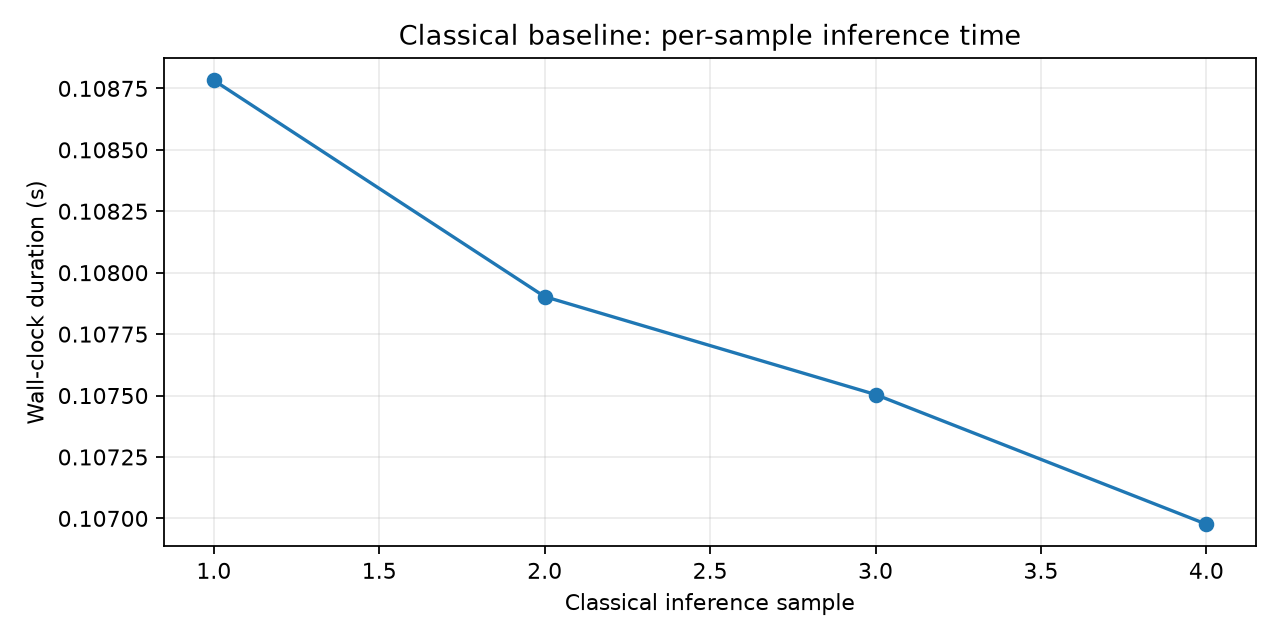
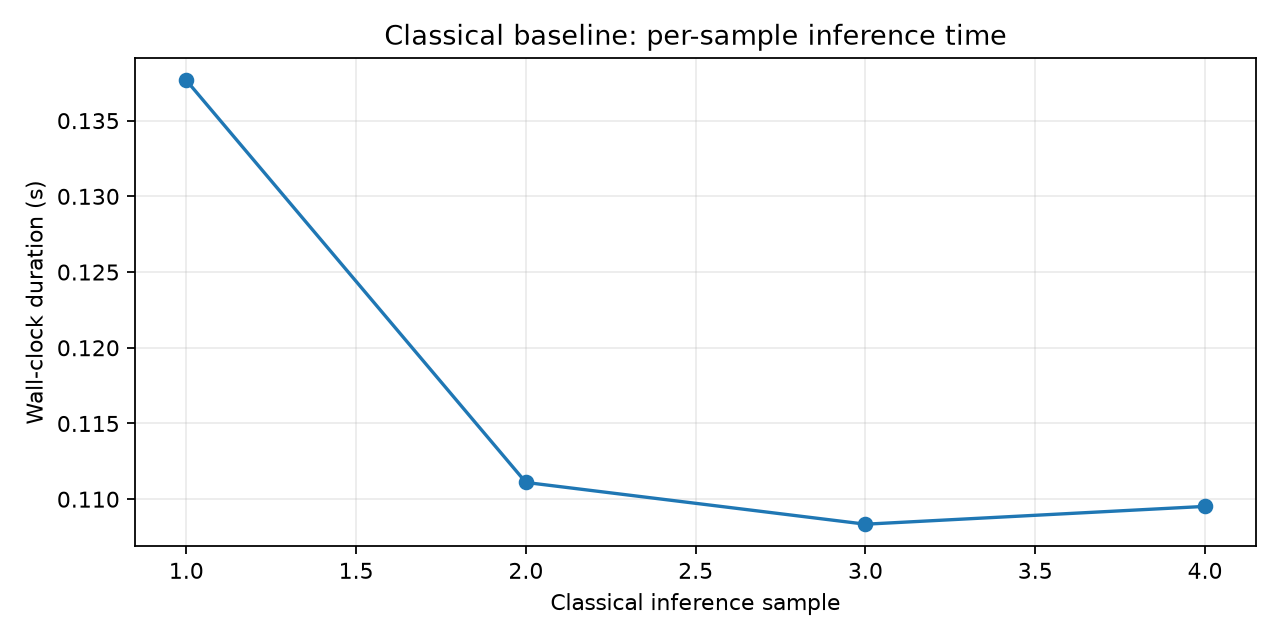
format

diff --git a/java-sdk/src/main/java/org/mse802/sdk/Main.java b/java-sdk/src/main/java/org/mse802/sdk/Main.java
@@ -6,52 +6,123 @@ import java.nio.charset.StandardCharsets;
 import java.time.Duration;
 import java.util.*;
 
-/** Quantum Quokka gateway and circuit-free classical baseline SDK. Author: Shuohui Liu. Date: 28 Oct 2026. */
+/**
+ * Quantum Quokka gateway and circuit-free classical baseline SDK. Author:
+ * Shuohui Liu. Date: 28 Oct 2026.
+ */
 public final class Main {
-  static final String URL = System.getenv().getOrDefault("QUOKKA_URL", "http://quokka1.quokkacomputing.com/qsim/qasm");
-  static final HttpClient HTTP = HttpClient.newBuilder().followRedirects(HttpClient.Redirect.NORMAL).connectTimeout(Duration.ofSeconds(12)).build();
-  static String arg(String[] a, int i) { if (a.length <= i) throw new IllegalArgumentException("Missing argument " + i); return a[i]; }
-  static String esc(String s) { return s.replace("\\", "\\\\").replace("\"", "\\\"").replace("\n", "\\n").replace("\r", "\\r"); }
-  static String block(double a, double b, int i, int j) { return "ry("+a+") q["+i+"];\nry("+b+") q["+j+"];\ncx q["+i+"],q["+j+"];\n"; }
-  static void pairs(List<int[]> out,int start,int end) { if(start>=end)return;int mid=(start+end-1)/2;pairs(out,start,mid);pairs(out,mid+1,end);out.add(new int[]{mid,end}); }
-  public static String circuit(String bits, double[] angles) {
-    int n=bits.length();if(n<2)throw new IllegalArgumentException("At least 2 pixels required");
-    if(angles.length!=2*(n-1))throw new IllegalArgumentException("Expected "+(2*(n-1))+" angles");
-    StringBuilder s=new StringBuilder("OPENQASM 2.0;\ninclude \"qelib1.inc\";\nqreg q["+n+"];\ncreg c[1];\n");
-    for(int i=0;i<n;i++){char b=bits.charAt(i);if(b=='1')s.append("x q[").append(i).append("];\n");else if(b!='0')throw new IllegalArgumentException("Binary pixels only");}
-    List<int[]> p=new ArrayList<>();pairs(p,0,n-1);int k=0;for(int[] pair:p)s.append(block(angles[k++],angles[k++],pair[0],pair[1]));
-    return s.append("measure q[").append(n-1).append("] -> c[0];\n").toString();
-  }
-  static double[] angles(String raw) {if(raw.isEmpty())return new double[0];String[] ss=raw.split(",");double[] a=new double[ss.length];for(int i=0;i<a.length;i++)a[i]=Double.parseDouble(ss[i]);return a;}
-  // Classical comparator: nearest Hamming distance to ideal horizontal/vertical bar patterns; no quantum gates or simulation.
-  static double classical(String bits, int side) {
-    if(bits.length()!=side*side)throw new IllegalArgumentException("Image size mismatch");
-    int bestH=Integer.MAX_VALUE,bestV=Integer.MAX_VALUE;
-    for(int mask=1;mask<(1<<side)-1;mask++) {
-      int dh=0,dv=0;for(int r=0;r<side;r++)for(int c=0;c<side;c++){
-        int observed=bits.charAt(r*side+c)-'0';dh+=observed!=((mask>>r)&1)?1:0;dv+=observed!=((mask>>c)&1)?1:0;
-      }bestH=Math.min(bestH,dh);bestV=Math.min(bestV,dv);
+    static final String URL = System.getenv().getOrDefault("QUOKKA_URL",
+            "http://quokka1.quokkacomputing.com/qsim/qasm");
+    static final HttpClient HTTP = HttpClient.newBuilder().followRedirects(HttpClient.Redirect.NORMAL)
+            .connectTimeout(Duration.ofSeconds(12)).build();
+
+    static String arg(String[] a, int i) {
+        if (a.length <= i)
+            throw new IllegalArgumentException("Missing argument " + i);
+        return a[i];
     }
-    return bestV<bestH?1.0:0.0; // source labels: stripes=0, bars=1; ties deterministic 0
-  }
-  static String quokka(String qasm,int shots)throws Exception{
-    String body="{\"count\":"+shots+",\"script\":\""+esc(qasm)+"\"}";
-    HttpRequest req=HttpRequest.newBuilder(URI.create(URL)).timeout(Duration.ofSeconds(90)).header("Content-Type","application/json").POST(HttpRequest.BodyPublishers.ofString(body,StandardCharsets.UTF_8)).build();
-    HttpResponse<String> response=HTTP.send(req,HttpResponse.BodyHandlers.ofString());
-    if(response.statusCode()/100!=2) {
-      String location=response.headers().firstValue("Location").orElse("(not provided)");
-      throw new RuntimeException("Quokka HTTP "+response.statusCode()+" at "+response.uri()+"; Location: "+location+"; Body: "+response.body());
+
+    static String esc(String s) {
+        return s.replace("\\", "\\\\").replace("\"", "\\\"").replace("\n", "\\n").replace("\r", "\\r");
     }
-    return response.body();
-  }
-  public static void main(String[] a) {
-    try {
-      switch(arg(a,0)) {
-        case "circuit": System.out.print(circuit(arg(a,1),angles(arg(a,2))));break;
-        case "classical": System.out.println(classical(arg(a,1),Integer.parseInt(arg(a,2))));break;
-        case "quokka": System.out.print(quokka(circuit(arg(a,1),angles(arg(a,2))),Integer.parseInt(arg(a,3))));break;
-        default:throw new IllegalArgumentException("Use circuit|classical|quokka");
-      }
-    }catch(Exception ex){System.err.println(ex.getMessage());System.exit(1);}
-  }
+
+    static String block(double a, double b, int i, int j) {
+        return "ry(" + a + ") q[" + i + "];\nry(" + b + ") q[" + j + "];\ncx q[" + i + "],q[" + j + "];\n";
+    }
+
+    static void pairs(List<int[]> out, int start, int end) {
+        if (start >= end)
+            return;
+        int mid = (start + end - 1) / 2;
+        pairs(out, start, mid);
+        pairs(out, mid + 1, end);
+        out.add(new int[] { mid, end });
+    }
+
+    public static String circuit(String bits, double[] angles) {
+        int n = bits.length();
+        if (n < 2)
+            throw new IllegalArgumentException("At least 2 pixels required");
+        if (angles.length != 2 * (n - 1))
+            throw new IllegalArgumentException("Expected " + (2 * (n - 1)) + " angles");
+        StringBuilder s = new StringBuilder("OPENQASM 2.0;\ninclude \"qelib1.inc\";\nqreg q[" + n + "];\ncreg c[1];\n");
+        for (int i = 0; i < n; i++) {
+            char b = bits.charAt(i);
+            if (b == '1')
+                s.append("x q[").append(i).append("];\n");
+            else if (b != '0')
+                throw new IllegalArgumentException("Binary pixels only");
+        }
+        List<int[]> p = new ArrayList<>();
+        pairs(p, 0, n - 1);
+        int k = 0;
+        for (int[] pair : p)
+            s.append(block(angles[k++], angles[k++], pair[0], pair[1]));
+        return s.append("measure q[").append(n - 1).append("] -> c[0];\n").toString();
+    }
+
+    static double[] angles(String raw) {
+        if (raw.isEmpty())
+            return new double[0];
+        String[] ss = raw.split(",");
+        double[] a = new double[ss.length];
+        for (int i = 0; i < a.length; i++)
+            a[i] = Double.parseDouble(ss[i]);
+        return a;
+    }
+
+    // Classical comparator: nearest Hamming distance to ideal horizontal/vertical
+    // bar patterns; no quantum gates or simulation.
+    static double classical(String bits, int side) {
+        if (bits.length() != side * side)
+            throw new IllegalArgumentException("Image size mismatch");
+        int bestH = Integer.MAX_VALUE, bestV = Integer.MAX_VALUE;
+        for (int mask = 1; mask < (1 << side) - 1; mask++) {
+            int dh = 0, dv = 0;
+            for (int r = 0; r < side; r++)
+                for (int c = 0; c < side; c++) {
+                    int observed = bits.charAt(r * side + c) - '0';
+                    dh += observed != ((mask >> r) & 1) ? 1 : 0;
+                    dv += observed != ((mask >> c) & 1) ? 1 : 0;
+                }
+            bestH = Math.min(bestH, dh);
+            bestV = Math.min(bestV, dv);
+        }
+        return bestV < bestH ? 1.0 : 0.0; // source labels: stripes=0, bars=1; ties deterministic 0
+    }
+
+    static String quokka(String qasm, int shots) throws Exception {
+        String body = "{\"count\":" + shots + ",\"script\":\"" + esc(qasm) + "\"}";
+        HttpRequest req = HttpRequest.newBuilder(URI.create(URL)).timeout(Duration.ofSeconds(90))
+                .header("Content-Type", "application/json")
+                .POST(HttpRequest.BodyPublishers.ofString(body, StandardCharsets.UTF_8)).build();
+        HttpResponse<String> response = HTTP.send(req, HttpResponse.BodyHandlers.ofString());
+        if (response.statusCode() / 100 != 2) {
+            String location = response.headers().firstValue("Location").orElse("(not provided)");
+            throw new RuntimeException("Quokka HTTP " + response.statusCode() + " at " + response.uri() + "; Location: "
+                    + location + "; Body: " + response.body());
+        }
+        return response.body();
+    }
+
+    public static void main(String[] a) {
+        try {
+            switch (arg(a, 0)) {
+                case "circuit":
+                    System.out.print(circuit(arg(a, 1), angles(arg(a, 2))));
+                    break;
+                case "classical":
+                    System.out.println(classical(arg(a, 1), Integer.parseInt(arg(a, 2))));
+                    break;
+                case "quokka":
+                    System.out.print(quokka(circuit(arg(a, 1), angles(arg(a, 2))), Integer.parseInt(arg(a, 3))));
+                    break;
+                default:
+                    throw new IllegalArgumentException("Use circuit|classical|quokka");
+            }
+        } catch (Exception ex) {
+            System.err.println(ex.getMessage());
+            System.exit(1);
+        }
+    }
 }

diff --git a/java-sdk/src/test/java/org/mse802/sdk/QuokkaRedirectTest.java b/java-sdk/src/test/java/org/mse802/sdk/QuokkaRedirectTest.java
@@ -6,45 +6,46 @@ import java.net.URI;
 import java.net.http.HttpClient;
 import java.nio.charset.StandardCharsets;
 
-/** Local regression test for Quokka 307 POST redirect handling.
+/**
+ * Local regression test for Quokka 307 POST redirect handling.
  * Author: Shuohui Liu
  * Date: 28 Oct 2026
  */
 public final class QuokkaRedirectTest {
-  public static void main(String[] args) throws Exception {
-    HttpServer server = HttpServer.create(new InetSocketAddress("127.0.0.1", 0), 0);
-    server.createContext("/redirect", exchange -> {
-      exchange.getRequestBody().readAllBytes();
-      exchange.getResponseHeaders().set("Location", "/target");
-      exchange.sendResponseHeaders(307, -1);
-      exchange.close();
-    });
-    server.createContext("/target", exchange -> {
-      String body = new String(exchange.getRequestBody().readAllBytes(), StandardCharsets.UTF_8);
-      if (!exchange.getRequestMethod().equals("POST") || !body.contains("\"count\":3") ||
-          !body.contains("\"script\":")) {
-        exchange.sendResponseHeaders(400, -1);
-      } else {
-        byte[] response = "{\"result\":{\"c\":[0,1,0]}}".getBytes(StandardCharsets.UTF_8);
-        exchange.sendResponseHeaders(200, response.length);
-        exchange.getResponseBody().write(response);
-      }
-      exchange.close();
-    });
-    server.start();
-    try {
-      String url = "http://127.0.0.1:" + server.getAddress().getPort() + "/redirect";
-      var request = java.net.http.HttpRequest.newBuilder(URI.create(url))
-          .header("Content-Type", "application/json")
-          .POST(java.net.http.HttpRequest.BodyPublishers.ofString("{\"count\":3,\"script\":\"test\"}"))
-          .build();
-      var response = Main.HTTP.send(request, java.net.http.HttpResponse.BodyHandlers.ofString());
-      if (response.statusCode() != 200 || !response.body().contains("\"result\"")) {
-        throw new AssertionError("HTTP redirect regression: " + response.statusCode());
-      }
-      System.out.println("PASS: 307 redirect preserves POST payload");
-    } finally {
-      server.stop(0);
+    public static void main(String[] args) throws Exception {
+        HttpServer server = HttpServer.create(new InetSocketAddress("127.0.0.1", 0), 0);
+        server.createContext("/redirect", exchange -> {
+            exchange.getRequestBody().readAllBytes();
+            exchange.getResponseHeaders().set("Location", "/target");
+            exchange.sendResponseHeaders(307, -1);
+            exchange.close();
+        });
+        server.createContext("/target", exchange -> {
+            String body = new String(exchange.getRequestBody().readAllBytes(), StandardCharsets.UTF_8);
+            if (!exchange.getRequestMethod().equals("POST") || !body.contains("\"count\":3") ||
+                    !body.contains("\"script\":")) {
+                exchange.sendResponseHeaders(400, -1);
+            } else {
+                byte[] response = "{\"result\":{\"c\":[0,1,0]}}".getBytes(StandardCharsets.UTF_8);
+                exchange.sendResponseHeaders(200, response.length);
+                exchange.getResponseBody().write(response);
+            }
+            exchange.close();
+        });
+        server.start();
+        try {
+            String url = "http://127.0.0.1:" + server.getAddress().getPort() + "/redirect";
+            var request = java.net.http.HttpRequest.newBuilder(URI.create(url))
+                    .header("Content-Type", "application/json")
+                    .POST(java.net.http.HttpRequest.BodyPublishers.ofString("{\"count\":3,\"script\":\"test\"}"))
+                    .build();
+            var response = Main.HTTP.send(request, java.net.http.HttpResponse.BodyHandlers.ofString());
+            if (response.statusCode() != 200 || !response.body().contains("\"result\"")) {
+                throw new AssertionError("HTTP redirect regression: " + response.statusCode());
+            }
+            System.out.println("PASS: 307 redirect preserves POST payload");
+        } finally {
+            server.stop(0);
+        }
     }
-  }
 }
